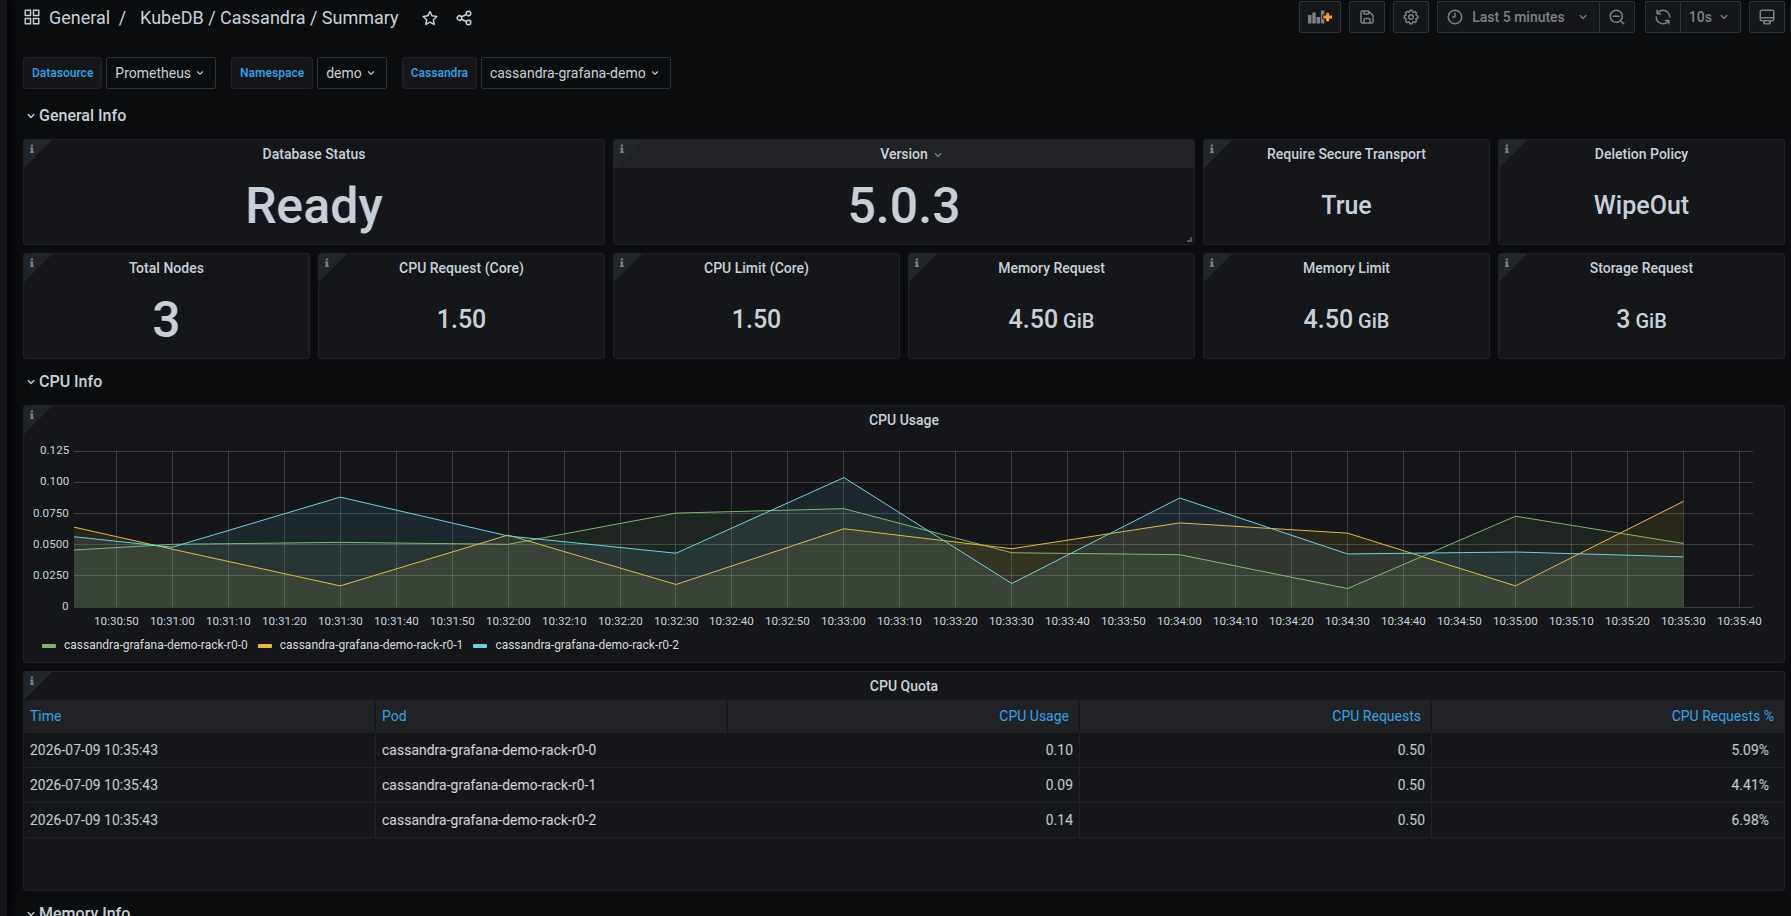
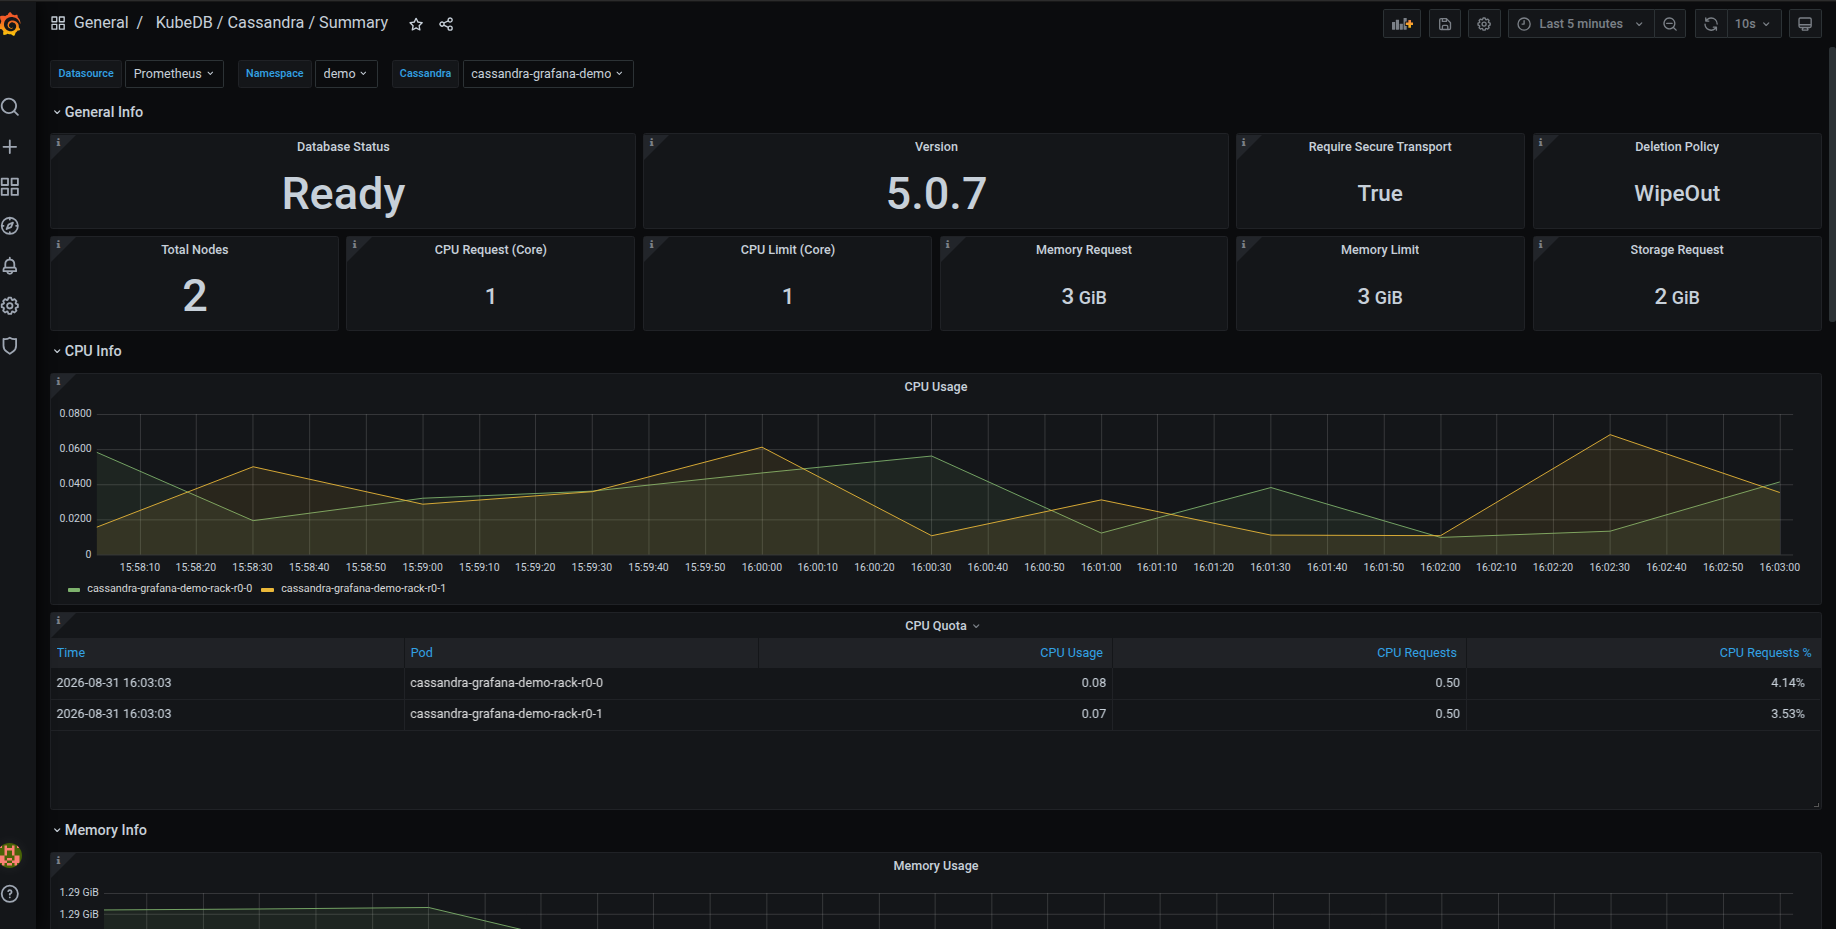
version, note, pod , image correction

diff --git a/docs/guides/singlestore/monitoring/grafana-dashboard.md b/docs/guides/singlestore/monitoring/grafana-dashboard.md
@@ -63,7 +63,7 @@ metadata:
   name: sdb-grafana-demo
   namespace: demo
 spec:
-  version: "8.7.10"
+  version: "8.9.3"
   licenseSecret:
     kind: Secret
     name: license-secret
@@ -102,7 +102,7 @@ Wait for it to be `Ready`:
 ```bash
 $ kubectl get singlestore -n demo sdb-grafana-demo
 NAME               VERSION   STATUS   AGE
-sdb-grafana-demo   8.7.10    Ready    3m
+sdb-grafana-demo   8.9.3    Ready    3m
 ```
 
 KubeDB creates a stats service named `{singlestore-name}-stats` for the exporter:
@@ -261,8 +261,6 @@ $ helm upgrade -i kubedb-grafana-dashboards-singlestore ./kubedb-grafana-dashboa
     --set grafana.namespace=monitoring
 ```
 
-> Use a release name unique to this database (`kubedb-grafana-dashboards-singlestore`), not the plain `kubedb-grafana-dashboards` name — if you also follow another DB's Grafana Dashboard guide on this same cluster, each `helm upgrade -i` under a *shared* release name would prune the previous DB's dashboards (Helm removes anything not in the new release's manifest). A per-DB release name lets them coexist.
-
 `grafana.name`/`grafana.namespace` point the chart's `GrafanaDashboard` resources at the `AppBinding` created in step 2 (omitting them falls back to whichever `AppBinding` in your cluster is labeled as the cluster-default Grafana, if any — explicit is safer on a shared cluster). No need to touch `featureGates` — with every other database's `dashboards/` folder removed, their gates simply match zero files and render nothing, regardless of being `true` by default.
 
 This creates every dashboard the chart ships for Singlestore — `KubeDB / Singlestore / Summary`, `KubeDB / Singlestore / Pod`, `KubeDB / Singlestore / Database` — which `grafana-operator` then pushes into your Grafana instance automatically. No manual JSON download or upload needed.
@@ -333,7 +331,7 @@ Start here for a cluster-level overview. The dashboard has three sections:
 
 **General Info** — status cards at the top:
 - **Database Status** — current health (e.g., `Ready`)
-- **Version** — Singlestore version running (e.g., `8.7.10`)
+- **Version** — Singlestore version running (e.g., `8.9.3`)
 - **Require Secure TLS** — whether TLS is enforced
 - **Deletion Policy** — configured deletion policy (e.g., `WipeOut`)
 - **Total Nodes**, **CPU Request/Limit**, **Memory Request/Limit**, **Storage Request** — resource configuration at a glance

diff --git a/docs/guides/hazelcast/monitoring/grafana-dashboard.md b/docs/guides/hazelcast/monitoring/grafana-dashboard.md
@@ -62,7 +62,7 @@ metadata:
   name: hz-grafana-demo
   namespace: demo
 spec:
-  version: "5.5.2"
+  version: "5.5.6"
   replicas: 3
   licenseSecret:
     name: hz-license-key
@@ -101,7 +101,7 @@ Wait for it to be `Ready`:
 ```bash
 $ kubectl get hazelcast -n demo hz-grafana-demo
 NAME              VERSION   STATUS   AGE
-hz-grafana-demo   5.5.2     Ready    3m
+hz-grafana-demo   5.5.6     Ready    3m
 ```
 
 KubeDB creates a stats service named `{hazelcast-name}-stats` for the exporter:
@@ -250,8 +250,6 @@ $ helm upgrade -i kubedb-grafana-dashboards-hazelcast ./kubedb-grafana-dashboard
     --set grafana.namespace=monitoring
 ```
 
-> Use a release name unique to this database (`kubedb-grafana-dashboards-hazelcast`), not the plain `kubedb-grafana-dashboards` name — if you also follow another DB's Grafana Dashboard guide on this same cluster, each `helm upgrade -i` under a *shared* release name would prune the previous DB's dashboards (Helm removes anything not in the new release's manifest). A per-DB release name lets them coexist.
-
 `grafana.name`/`grafana.namespace` point the chart's `GrafanaDashboard` resources at the `AppBinding` created in step 2 (omitting them falls back to whichever `AppBinding` in your cluster is labeled as the cluster-default Grafana, if any — explicit is safer on a shared cluster). No need to touch `featureGates` — with every other database's `dashboards/` folder removed, their gates simply match zero files and render nothing, regardless of being `true` by default.
 
 This creates every dashboard the chart ships for Hazelcast — `KubeDB / Hazelcast / Summary`, `KubeDB / Hazelcast / Pod`, `KubeDB / Hazelcast / Database` — which `grafana-operator` then pushes into your Grafana instance automatically. No manual JSON download or upload needed.
@@ -317,7 +315,7 @@ Cluster-level overview showing general health, resource usage, storage, and netw
 **General Info section:**
 - **Database Status** — current health (`Ready`, `NotReady`, etc.)
 - **Database Up-time** — how long the cluster has been running
-- **Version** — Hazelcast version (e.g., `5.5.2`)
+- **Version** — Hazelcast version (e.g., `5.5.6`)
 - **Total Nodes** — number of active member pods
 - **CPU / Memory Request & Limit** — configured resource bounds per pod
 - **Deletion Policy** — KubeDB deletion policy (e.g., `WipeOut`)

diff --git a/docs/guides/mariadb/monitoring/grafana-dashboard.md b/docs/guides/mariadb/monitoring/grafana-dashboard.md
@@ -55,8 +55,11 @@ metadata:
   name: mariadb-grafana-demo
   namespace: demo
 spec:
-  version: "11.5.2"
-  deletionPolicy: WipeOut
+  version: "12.1.2"
+  replicas: 3
+  topology:
+    mode: GaleraCluster
+  storageType: Durable
   storage:
     storageClassName: "standard"
     accessModes:
@@ -64,6 +67,7 @@ spec:
     resources:
       requests:
         storage: 1Gi
+  deletionPolicy: WipeOut
   monitor:
     agent: prometheus.io/operator
     prometheus:
@@ -91,7 +95,7 @@ Wait for it to be `Ready`:
 ```bash
 $ kubectl get mariadb -n demo mariadb-grafana-demo
 NAME                   VERSION   STATUS   AGE
-mariadb-grafana-demo   11.5.2    Ready    2m
+mariadb-grafana-demo   12.3.2    Ready    2m
 ```
 
 KubeDB creates a stats service named `{mariadb-name}-stats` for the exporter:
@@ -249,8 +253,6 @@ $ helm upgrade -i kubedb-grafana-dashboards-mariadb ./kubedb-grafana-dashboards-
     --set grafana.name=grafana \
     --set grafana.namespace=monitoring
 ```
-
-> Use a release name unique to this database (`kubedb-grafana-dashboards-mariadb`), not the plain `kubedb-grafana-dashboards` name — if you also follow another DB's Grafana Dashboard guide on this same cluster, each `helm upgrade -i` under a *shared* release name would prune the previous DB's dashboards (Helm removes anything not in the new release's manifest). A per-DB release name lets them coexist.
 
 `grafana.name`/`grafana.namespace` point the chart's `GrafanaDashboard` resources at the `AppBinding` created in step 2 (omitting them falls back to whichever `AppBinding` in your cluster is labeled as the cluster-default Grafana, if any — explicit is safer on a shared cluster). No need to touch `featureGates` — with every other database's `dashboards/` folder removed, their gates simply match zero files and render nothing, regardless of being `true` by default.
 

diff --git a/docs/guides/proxysql/monitoring/grafana-dashboard.md b/docs/guides/proxysql/monitoring/grafana-dashboard.md
@@ -55,7 +55,7 @@ metadata:
   name: proxysql-grafana-demo
   namespace: demo
 spec:
-  version: "2.4.4-debian"
+  version: "3.0.1-debian"
   replicas: 1
   backend:
     name: mysql-server
@@ -87,7 +87,7 @@ Wait for it to be `Ready`:
 ```bash
 $ kubectl get proxysql -n demo proxysql-grafana-demo
 NAME                    VERSION        STATUS   AGE
-proxysql-grafana-demo   2.4.4-debian   Ready    2m
+proxysql-grafana-demo   3.0.1-debian   Ready    2m
 ```
 
 KubeDB creates a stats service named `{proxysql-name}-stats` for the exporter:
@@ -245,8 +245,6 @@ $ helm upgrade -i kubedb-grafana-dashboards-proxysql ./kubedb-grafana-dashboards
     --set grafana.name=grafana \
     --set grafana.namespace=monitoring
 ```
-
-> Use a release name unique to this database (`kubedb-grafana-dashboards-proxysql`), not the plain `kubedb-grafana-dashboards` name — if you also follow another DB's Grafana Dashboard guide on this same cluster, each `helm upgrade -i` under a *shared* release name would prune the previous DB's dashboards (Helm removes anything not in the new release's manifest). A per-DB release name lets them coexist.
 
 `grafana.name`/`grafana.namespace` point the chart's `GrafanaDashboard` resources at the `AppBinding` created in step 2 (omitting them falls back to whichever `AppBinding` in your cluster is labeled as the cluster-default Grafana, if any — explicit is safer on a shared cluster). No need to touch `featureGates` — with every other database's `dashboards/` folder removed, their gates simply match zero files and render nothing, regardless of being `true` by default.
 

diff --git a/docs/guides/memcached/monitoring/grafana-dashboard.md b/docs/guides/memcached/monitoring/grafana-dashboard.md
@@ -55,7 +55,7 @@ metadata:
   name: memcached-grafana-demo
   namespace: demo
 spec:
-  version: "1.6.22"
+  version: "1.6.40"
   replicas: 1
   deletionPolicy: WipeOut
   podTemplate:
@@ -96,7 +96,7 @@ Wait for it to be `Ready`:
 ```bash
 $ kubectl get memcached -n demo memcached-grafana-demo
 NAME                     VERSION   STATUS   AGE
-memcached-grafana-demo   1.6.22    Ready    2m
+memcached-grafana-demo   1.6.40    Ready    2m
 ```
 
 KubeDB creates a stats service named `{memcached-name}-stats` for the exporter:
@@ -254,8 +254,6 @@ $ helm upgrade -i kubedb-grafana-dashboards-memcached ./kubedb-grafana-dashboard
     --set grafana.name=grafana \
     --set grafana.namespace=monitoring
 ```
-
-> Use a release name unique to this database (`kubedb-grafana-dashboards-memcached`), not the plain `kubedb-grafana-dashboards` name — if you also follow another DB's Grafana Dashboard guide on this same cluster, each `helm upgrade -i` under a *shared* release name would prune the previous DB's dashboards (Helm removes anything not in the new release's manifest). A per-DB release name lets them coexist.
 
 `grafana.name`/`grafana.namespace` point the chart's `GrafanaDashboard` resources at the `AppBinding` created in step 2 (omitting them falls back to whichever `AppBinding` in your cluster is labeled as the cluster-default Grafana, if any — explicit is safer on a shared cluster). No need to touch `featureGates` — with every other database's `dashboards/` folder removed, their gates simply match zero files and render nothing, regardless of being `true` by default.
 

diff --git a/docs/guides/cassandra/monitoring/grafana-dashboard.md b/docs/guides/cassandra/monitoring/grafana-dashboard.md
@@ -55,7 +55,7 @@ metadata:
   name: cassandra-grafana-demo
   namespace: demo
 spec:
-  version: "5.0.3"
+  version: "5.0.7"
   topology:
     rack:
       - name: r0
@@ -95,7 +95,7 @@ Wait for it to be `Ready`:
 ```bash
 $ kubectl get cassandra -n demo cassandra-grafana-demo
 NAME                     VERSION   STATUS   AGE
-cassandra-grafana-demo   5.0.3     Ready    3m
+cassandra-grafana-demo   5.0.7     Ready    3m
 ```
 
 KubeDB creates a stats service named `{cassandra-name}-stats` for the exporter:
@@ -253,8 +253,6 @@ $ helm upgrade -i kubedb-grafana-dashboards-cassandra ./kubedb-grafana-dashboard
     --set grafana.name=grafana \
     --set grafana.namespace=monitoring
 ```
-
-> Use a release name unique to this database (`kubedb-grafana-dashboards-cassandra`), not the plain `kubedb-grafana-dashboards` name — if you also follow another DB's Grafana Dashboard guide on this same cluster, each `helm upgrade -i` under a *shared* release name would prune the previous DB's dashboards (Helm removes anything not in the new release's manifest). A per-DB release name lets them coexist.
 
 `grafana.name`/`grafana.namespace` point the chart's `GrafanaDashboard` resources at the `AppBinding` created in step 2 (omitting them falls back to whichever `AppBinding` in your cluster is labeled as the cluster-default Grafana, if any — explicit is safer on a shared cluster). No need to touch `featureGates` — with every other database's `dashboards/` folder removed, their gates simply match zero files and render nothing, regardless of being `true` by default.
 

diff --git a/docs/guides/ignite/monitoring/grafana-dashboard.md b/docs/guides/ignite/monitoring/grafana-dashboard.md
@@ -55,7 +55,7 @@ metadata:
   name: ignite-grafana-demo
   namespace: demo
 spec:
-  version: "2.17.0"
+  version: "2.18.0"
   replicas: 3
   deletionPolicy: WipeOut
   podTemplate:
@@ -96,7 +96,7 @@ Wait for it to be `Ready`:
 ```bash
 $ kubectl get ignite -n demo ignite-grafana-demo
 NAME                  VERSION   STATUS   AGE
-ignite-grafana-demo   2.17.0    Ready    2m
+ignite-grafana-demo   2.18.0    Ready    2m
 ```
 
 KubeDB creates a stats service named `{ignite-name}-stats` for the exporter:
@@ -254,8 +254,6 @@ $ helm upgrade -i kubedb-grafana-dashboards-ignite ./kubedb-grafana-dashboards-v
     --set grafana.name=grafana \
     --set grafana.namespace=monitoring
 ```
-
-> Use a release name unique to this database (`kubedb-grafana-dashboards-ignite`), not the plain `kubedb-grafana-dashboards` name — if you also follow another DB's Grafana Dashboard guide on this same cluster, each `helm upgrade -i` under a *shared* release name would prune the previous DB's dashboards (Helm removes anything not in the new release's manifest). A per-DB release name lets them coexist.
 
 `grafana.name`/`grafana.namespace` point the chart's `GrafanaDashboard` resources at the `AppBinding` created in step 2 (omitting them falls back to whichever `AppBinding` in your cluster is labeled as the cluster-default Grafana, if any — explicit is safer on a shared cluster). No need to touch `featureGates` — with every other database's `dashboards/` folder removed, their gates simply match zero files and render nothing, regardless of being `true` by default.
 

diff --git a/docs/guides/mssqlserver/monitoring/grafana-dashboard.md b/docs/guides/mssqlserver/monitoring/grafana-dashboard.md
@@ -82,7 +82,7 @@ metadata:
   name: mssql-grafana-demo
   namespace: demo
 spec:
-  version: "2022-cu12"
+  version: "2025-cu0"
   replicas: 1
   tls:
     issuerRef:
@@ -126,7 +126,7 @@ Wait for it to be `Ready`:
 ```bash
 $ kubectl get mssqlserver -n demo mssql-grafana-demo
 NAME                 VERSION    STATUS   AGE
-mssql-grafana-demo   2022-cu12  Ready    3m
+mssql-grafana-demo   2025-cu0  Ready    3m
 ```
 
 KubeDB creates a stats service named `{mssqlserver-name}-stats` for the exporter:
@@ -284,8 +284,6 @@ $ helm upgrade -i kubedb-grafana-dashboards-mssqlserver ./kubedb-grafana-dashboa
     --set grafana.name=grafana \
     --set grafana.namespace=monitoring
 ```
-
-> Use a release name unique to this database (`kubedb-grafana-dashboards-mssqlserver`), not the plain `kubedb-grafana-dashboards` name — if you also follow another DB's Grafana Dashboard guide on this same cluster, each `helm upgrade -i` under a *shared* release name would prune the previous DB's dashboards (Helm removes anything not in the new release's manifest). A per-DB release name lets them coexist.
 
 `grafana.name`/`grafana.namespace` point the chart's `GrafanaDashboard` resources at the `AppBinding` created in step 2 (omitting them falls back to whichever `AppBinding` in your cluster is labeled as the cluster-default Grafana, if any — explicit is safer on a shared cluster). No need to touch `featureGates` — with every other database's `dashboards/` folder removed, their gates simply match zero files and render nothing, regardless of being `true` by default.
 

diff --git a/docs/guides/neo4j/monitoring/grafana-dashboard.md b/docs/guides/neo4j/monitoring/grafana-dashboard.md
@@ -55,7 +55,7 @@ metadata:
   name: neo4j-grafana-demo
   namespace: demo
 spec:
-  version: "2025.11.2"
+  version: "2026.06.0"
   replicas: 3
   deletionPolicy: WipeOut
   storage:
@@ -92,7 +92,7 @@ Wait for it to be `Ready`:
 ```bash
 $ kubectl get neo4j -n demo neo4j-grafana-demo
 NAME                 VERSION     STATUS   AGE
-neo4j-grafana-demo   2025.11.2   Ready    3m
+neo4j-grafana-demo   2026.06.0   Ready    3m
 ```
 
 KubeDB creates a stats service named `{neo4j-name}-stats` for the exporter:
@@ -240,8 +240,6 @@ $ helm upgrade -i kubedb-grafana-dashboards-neo4j ./kubedb-grafana-dashboards-v2
     --set grafana.name=grafana \
     --set grafana.namespace=monitoring
 ```
-
-> Use a release name unique to this database (`kubedb-grafana-dashboards-neo4j`), not the plain `kubedb-grafana-dashboards` name — if you also follow another DB's Grafana Dashboard guide on this same cluster, each `helm upgrade -i` under a *shared* release name would prune the previous DB's dashboards (Helm removes anything not in the new release's manifest). A per-DB release name lets them coexist.
 
 `grafana.name`/`grafana.namespace` point the chart's `GrafanaDashboard` resources at the `AppBinding` created in step 2 (omitting them falls back to whichever `AppBinding` in your cluster is labeled as the cluster-default Grafana, if any — explicit is safer on a shared cluster). No need to touch `featureGates` — with every other database's `dashboards/` folder removed, their gates simply match zero files and render nothing, regardless of being `true` by default.
 

diff --git a/docs/guides/rabbitmq/monitoring/grafana-dashboard.md b/docs/guides/rabbitmq/monitoring/grafana-dashboard.md
@@ -55,7 +55,7 @@ metadata:
   name: rmq-grafana-demo
   namespace: demo
 spec:
-  version: "4.0.4"
+  version: "4.2.4"
   replicas: 1
   deletionPolicy: WipeOut
   storage:
@@ -92,7 +92,7 @@ Wait for it to be `Ready`:
 ```bash
 $ kubectl get rabbitmq -n demo rmq-grafana-demo
 NAME               VERSION   STATUS   AGE
-rmq-grafana-demo   4.0.4     Ready    2m
+rmq-grafana-demo   4.2.4     Ready    2m
 ```
 
 KubeDB creates a stats service named `{rabbitmq-name}-stats` for monitoring:
@@ -250,8 +250,6 @@ $ helm upgrade -i kubedb-grafana-dashboards-rabbitmq ./kubedb-grafana-dashboards
     --set grafana.name=grafana \
     --set grafana.namespace=monitoring
 ```
-
-> Use a release name unique to this database (`kubedb-grafana-dashboards-rabbitmq`), not the plain `kubedb-grafana-dashboards` name — if you also follow another DB's Grafana Dashboard guide on this same cluster, each `helm upgrade -i` under a *shared* release name would prune the previous DB's dashboards (Helm removes anything not in the new release's manifest). A per-DB release name lets them coexist.
 
 `grafana.name`/`grafana.namespace` point the chart's `GrafanaDashboard` resources at the `AppBinding` created in step 2 (omitting them falls back to whichever `AppBinding` in your cluster is labeled as the cluster-default Grafana, if any — explicit is safer on a shared cluster). No need to touch `featureGates` — with every other database's `dashboards/` folder removed, their gates simply match zero files and render nothing, regardless of being `true` by default.
 

diff --git a/docs/guides/zookeeper/monitoring/grafana-dashboard.md b/docs/guides/zookeeper/monitoring/grafana-dashboard.md
@@ -55,7 +55,7 @@ metadata:
   name: zk-grafana-demo
   namespace: demo
 spec:
-  version: "3.8.3"
+  version: "3.9.1"
   replicas: 3
   deletionPolicy: WipeOut
   storage:
@@ -92,7 +92,7 @@ Wait for it to be `Ready`:
 ```bash
 $ kubectl get zookeeper -n demo zk-grafana-demo
 NAME              VERSION   STATUS   AGE
-zk-grafana-demo   3.8.3     Ready    2m
+zk-grafana-demo   3.9.1     Ready    2m
 ```
 
 KubeDB creates a stats service named `{zookeeper-name}-stats` for the exporter:
@@ -240,8 +240,6 @@ $ helm upgrade -i kubedb-grafana-dashboards-zookeeper ./kubedb-grafana-dashboard
     --set grafana.name=grafana \
     --set grafana.namespace=monitoring
 ```
-
-> Use a release name unique to this database (`kubedb-grafana-dashboards-zookeeper`), not the plain `kubedb-grafana-dashboards` name — if you also follow another DB's Grafana Dashboard guide on this same cluster, each `helm upgrade -i` under a *shared* release name would prune the previous DB's dashboards (Helm removes anything not in the new release's manifest). A per-DB release name lets them coexist.
 
 `grafana.name`/`grafana.namespace` point the chart's `GrafanaDashboard` resources at the `AppBinding` created in step 2 (omitting them falls back to whichever `AppBinding` in your cluster is labeled as the cluster-default Grafana, if any — explicit is safer on a shared cluster). No need to touch `featureGates` — with every other database's `dashboards/` folder removed, their gates simply match zero files and render nothing, regardless of being `true` by default.
 

diff --git a/docs/guides/postgres/monitoring/grafana-dashboard.md b/docs/guides/postgres/monitoring/grafana-dashboard.md
@@ -55,7 +55,7 @@ metadata:
   name: pg-grafana-demo
   namespace: demo
 spec:
-  version: "13.13"
+  version: "18.3"
   replicas: 3
   deletionPolicy: WipeOut
   storage:
@@ -92,7 +92,7 @@ Wait for it to be `Ready`:
 ```bash
 $ kubectl get postgres -n demo pg-grafana-demo
 NAME              VERSION   STATUS   AGE
-pg-grafana-demo   13.13     Ready    2m
+pg-grafana-demo   18.3      Ready    2m
 ```
 
 KubeDB creates a stats service named `{postgres-name}-stats` for the exporter:
@@ -251,8 +251,6 @@ $ helm upgrade -i kubedb-grafana-dashboards-postgres ./kubedb-grafana-dashboards
     --set grafana.name=grafana \
     --set grafana.namespace=monitoring
 ```
-
-> Use a release name unique to this database (`kubedb-grafana-dashboards-postgres`), not the plain `kubedb-grafana-dashboards` name — if you also follow another DB's Grafana Dashboard guide on this same cluster, each `helm upgrade -i` under a *shared* release name would prune the previous DB's dashboards (Helm removes anything not in the new release's manifest). A per-DB release name lets them coexist.
 
 `grafana.name`/`grafana.namespace` point the chart's `GrafanaDashboard` resources at the `AppBinding` created in step 2 (omitting them falls back to whichever `AppBinding` in your cluster is labeled as the cluster-default Grafana, if any — explicit is safer on a shared cluster). No need to touch `featureGates` — with every other database's `dashboards/` folder removed, their gates simply match zero files and render nothing, regardless of being `true` by default.
 
